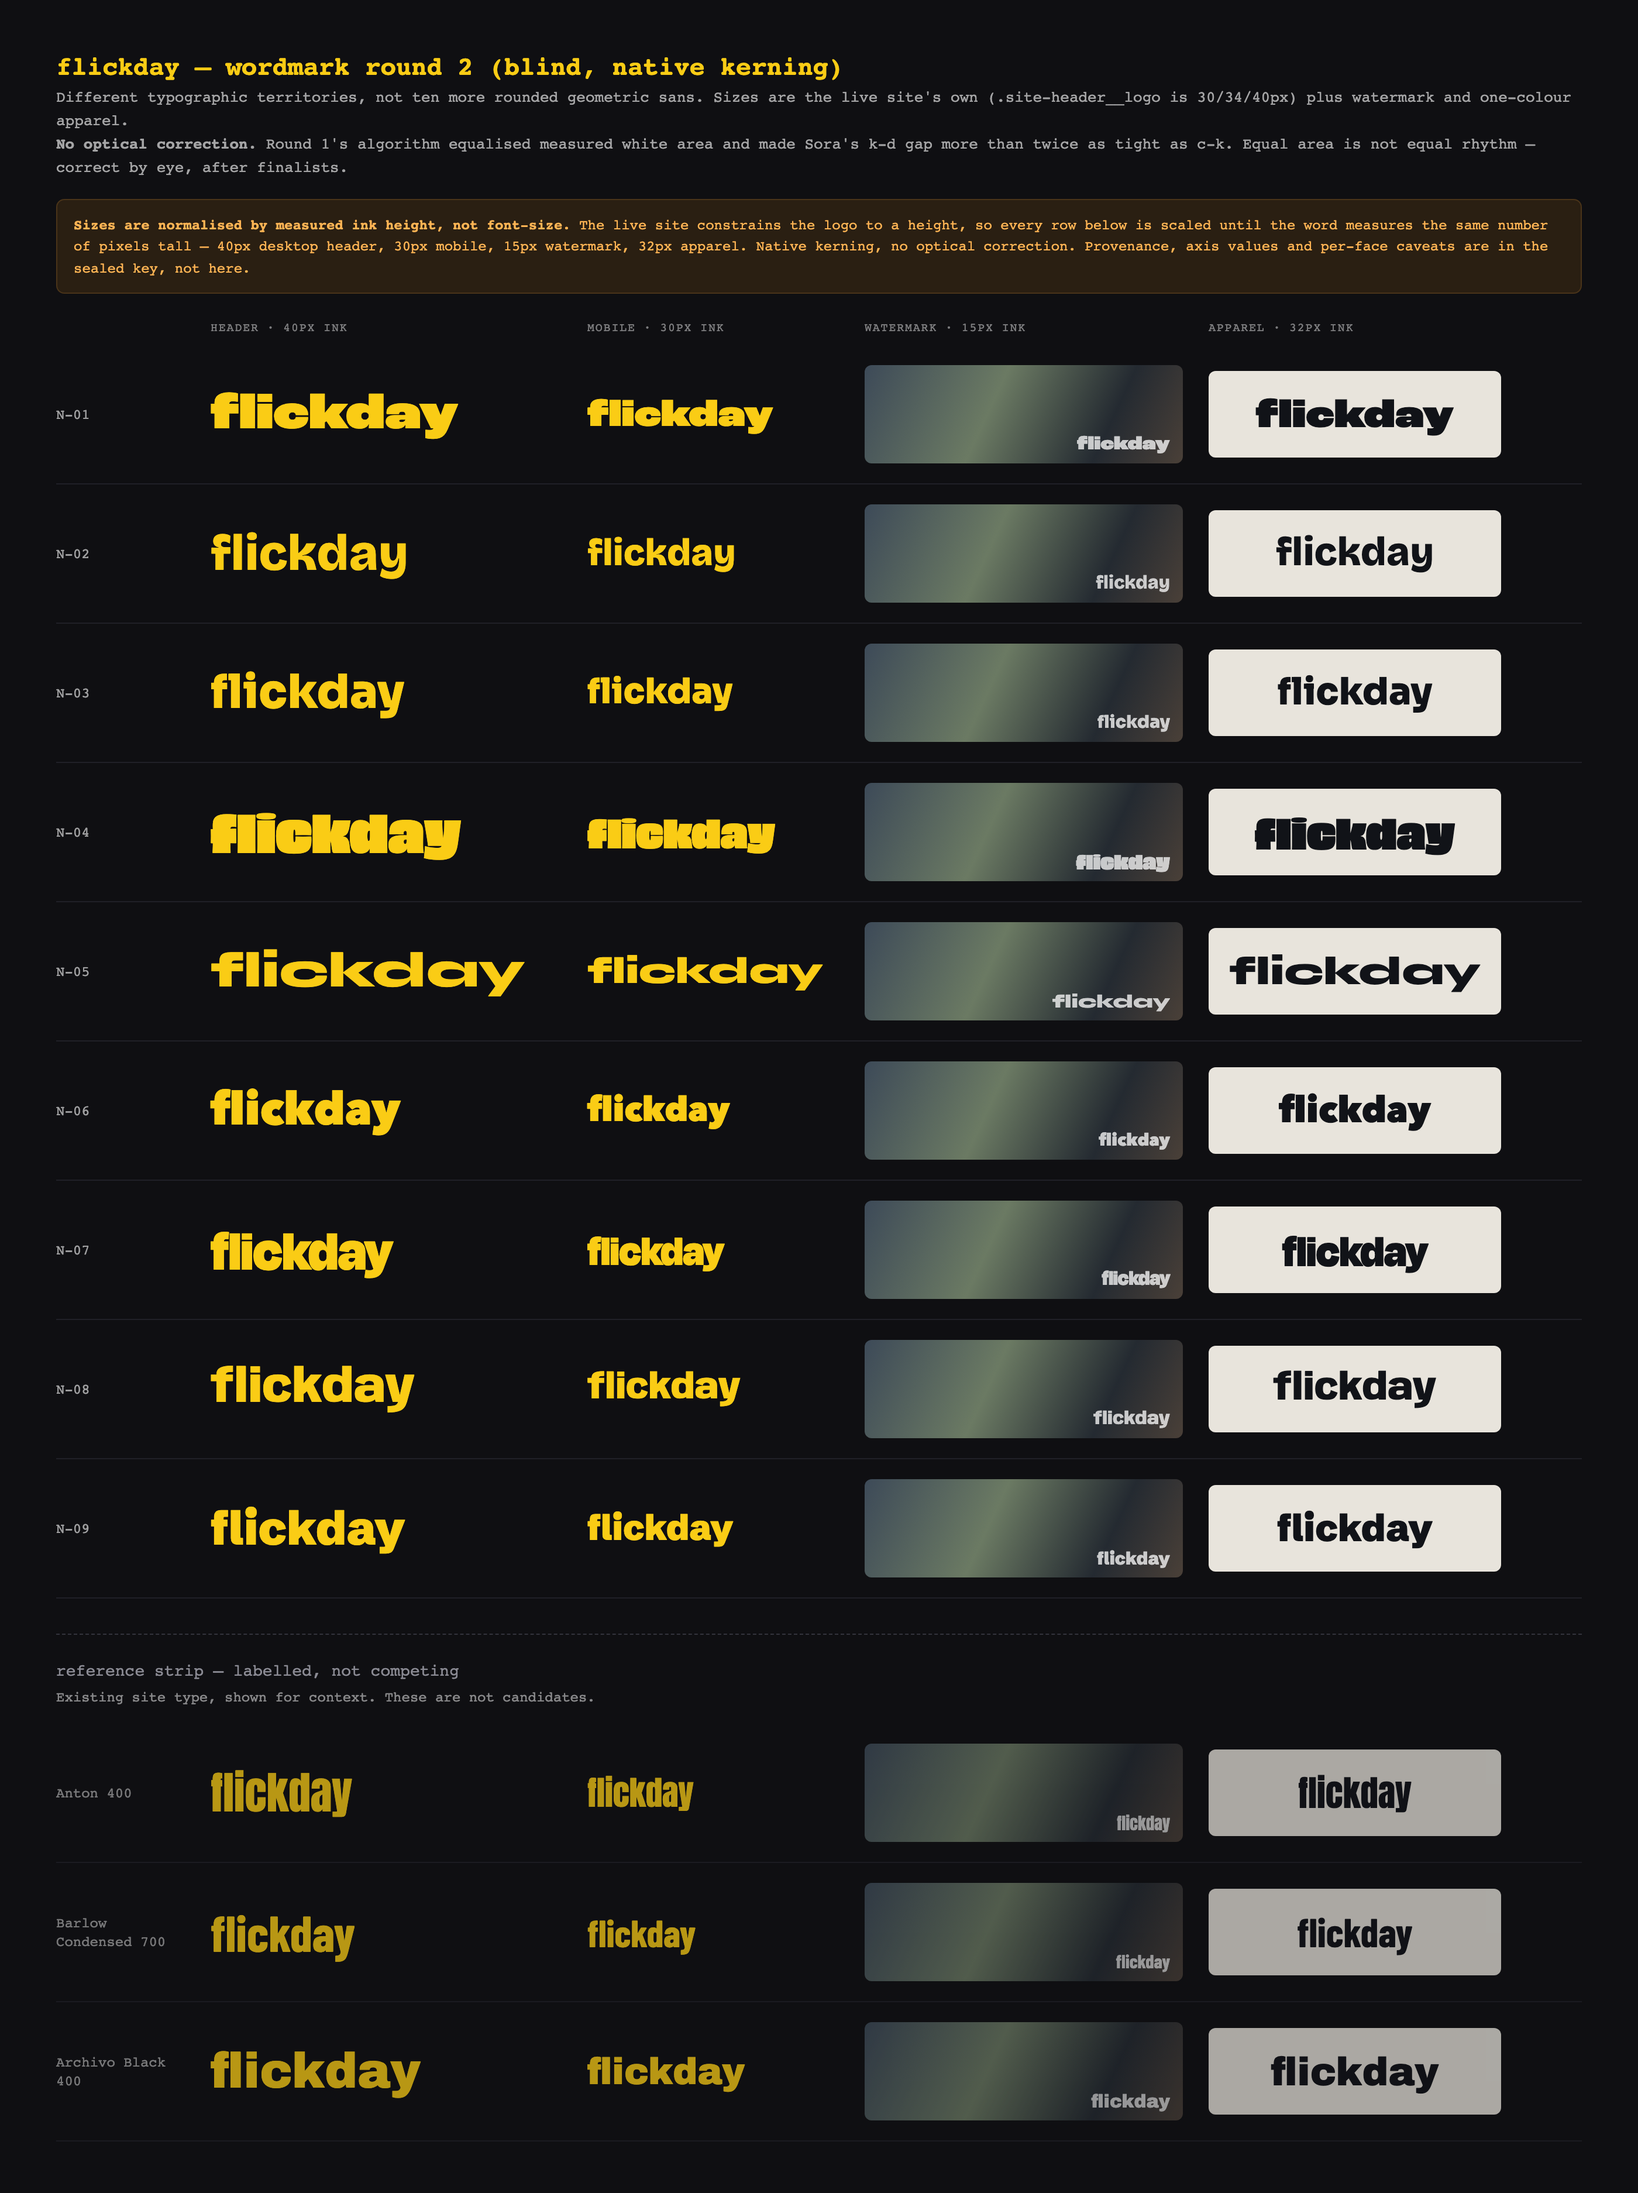
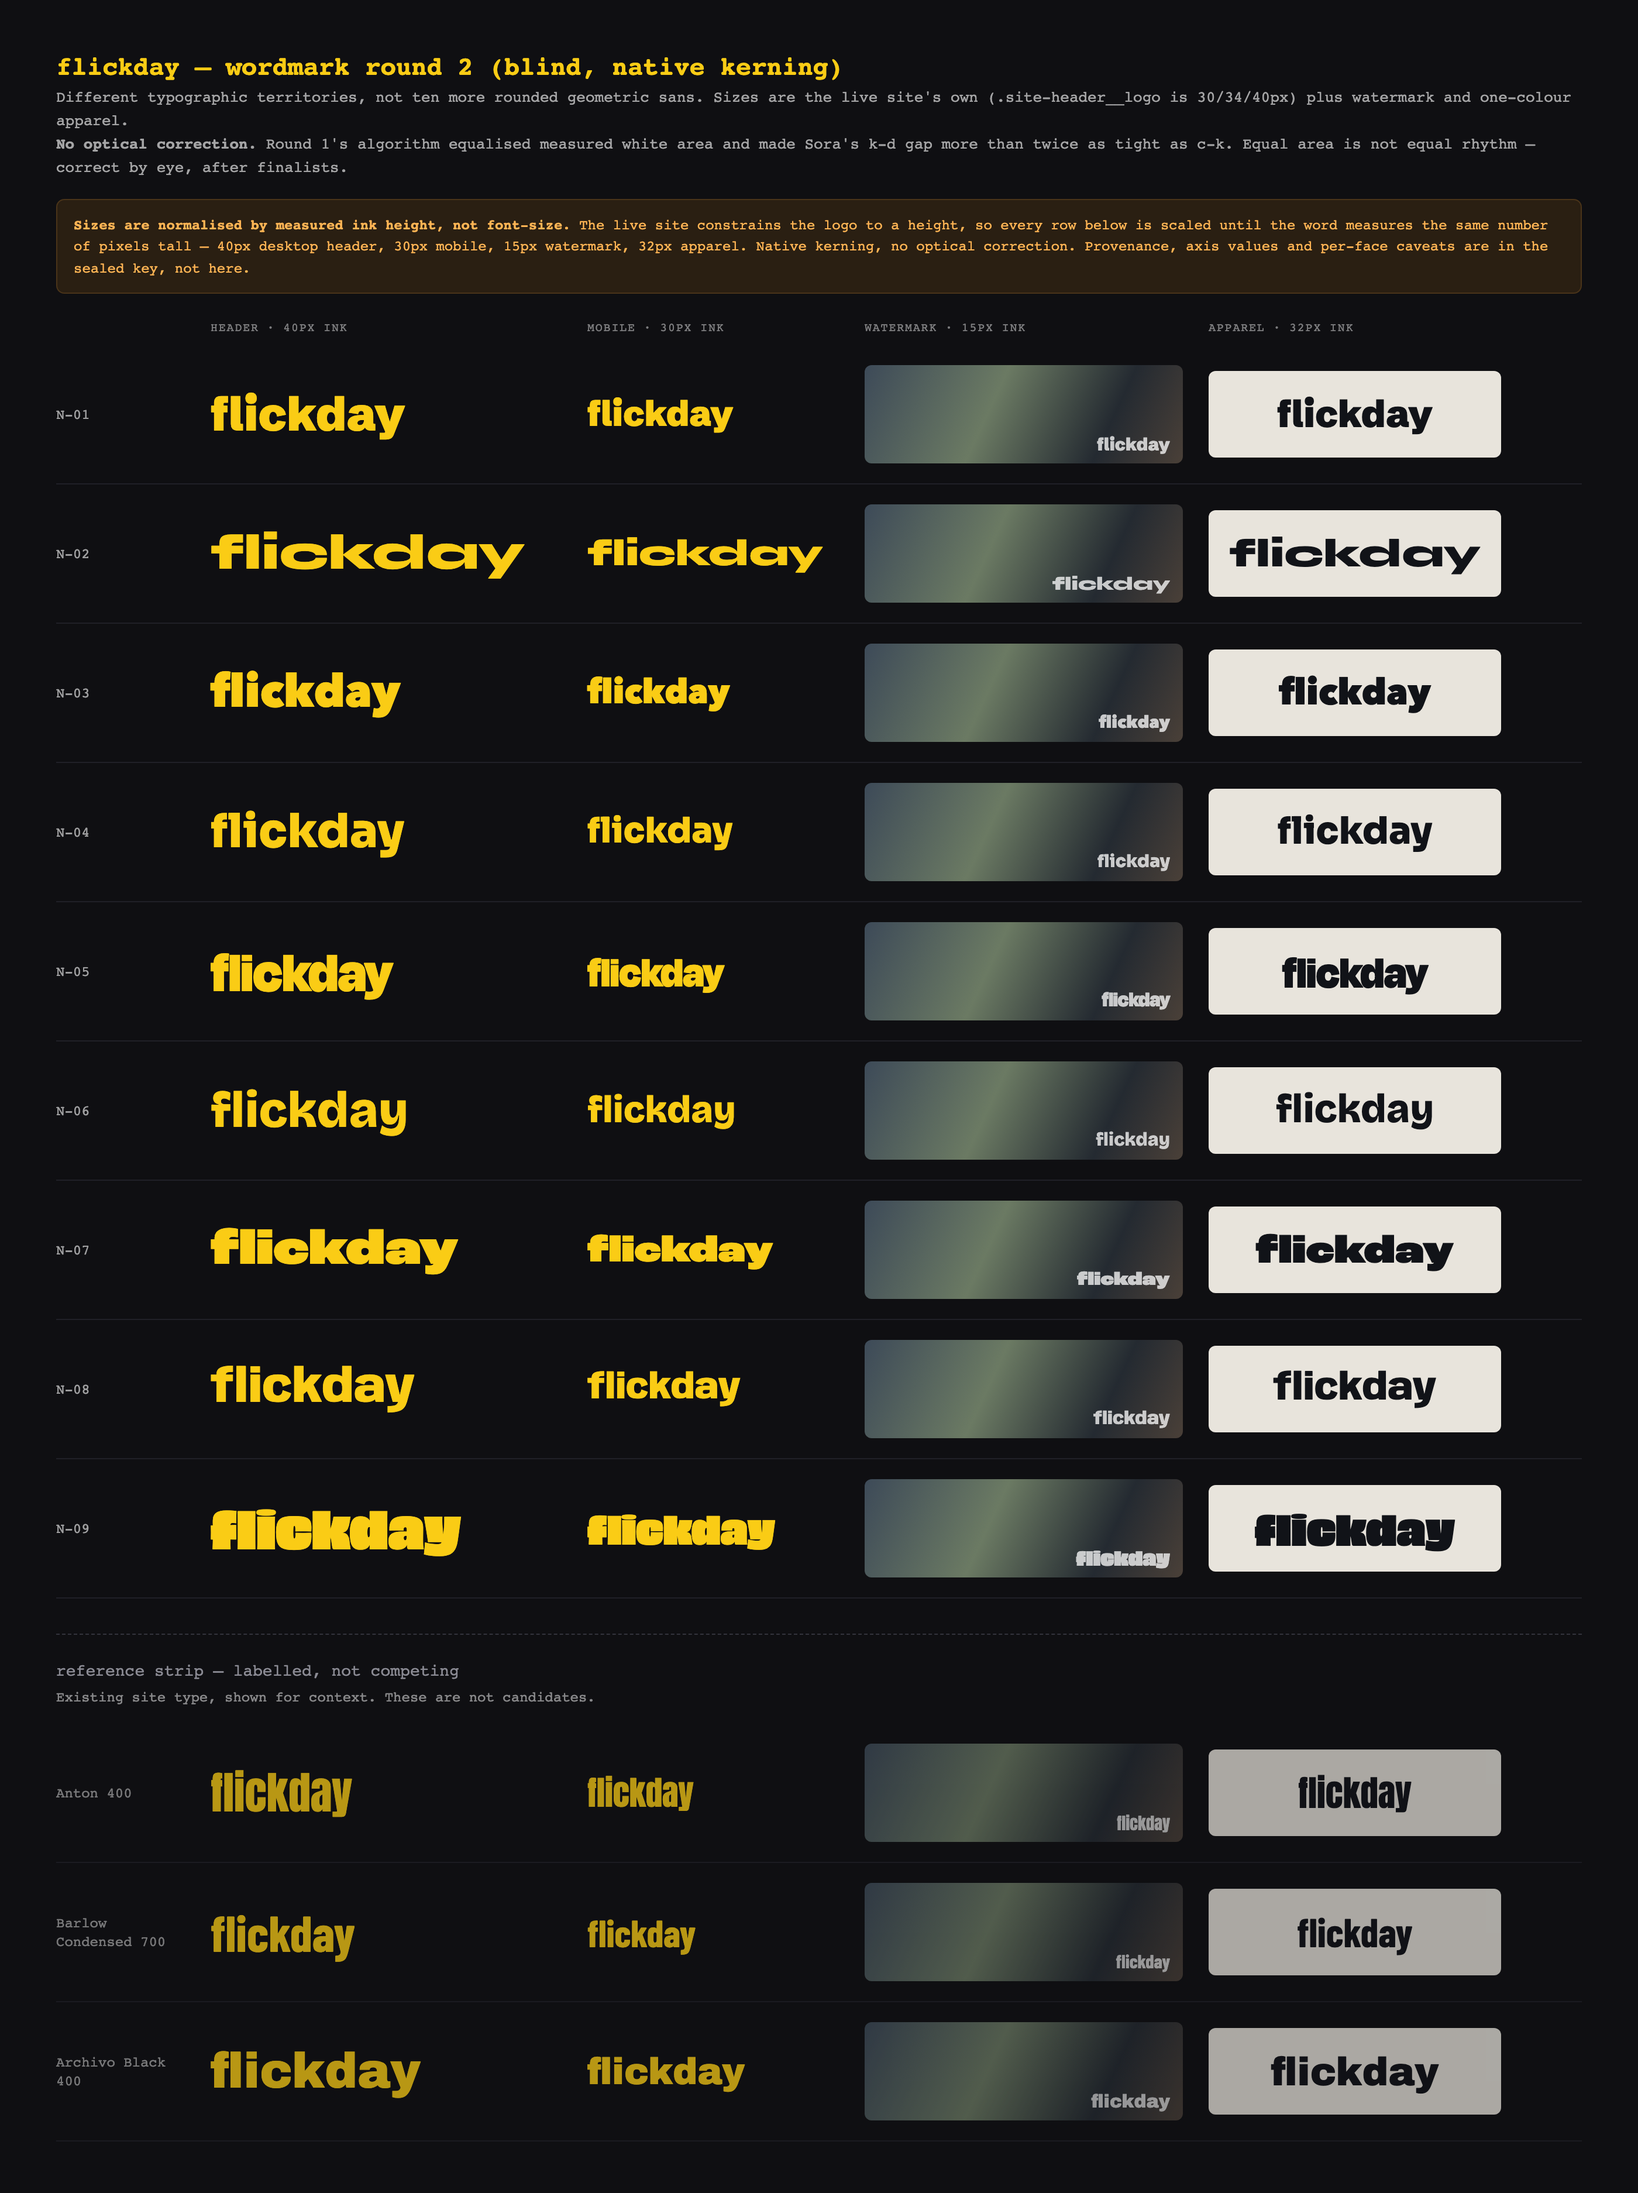
feat(wordmark): reshuffle to restore blindness, and record a blind read
Both reviewers had learned the fixed permutation by reviewing the code
that produced it, so the sheet was no longer blind to either of us. The
script now takes FLICKDAY_SHUFFLE=1, draws the order at random, and never
narrates it: per-face fetch logging is gone and the roster prints
alphabetically, so the roster is visible and the assignment is not.

One identity still leaks and is declared rather than hidden. Ink at 200px
is logged per code, and 160 is distinctive enough to name the Degular row
from the earlier fixed-order runs. It is also the top pick, which is
noted in the read.

round2-BLIND-READ.md records the shortlist before the key was opened:
N-09 rejected for closing up at 15px, N-05/N-02/N-07 carried, N-01 as the
alternate if width eliminates either wide candidate.

The spacing note worth keeping: kd runs open and ck runs tight in the raw
metrics of nearly every face. That asymmetry is real, and it is what the
round-1 algorithm over-read when it drove kd to twice the correction of
ck. The pair needs closing by hand, and by less.

diff --git a/flickday-assets/wordmarks/round2-BLIND-READ.md b/flickday-assets/wordmarks/round2-BLIND-READ.md
@@ -1,0 +1,60 @@
+# Round 2 blind read — 2026-07-22
+
+Written before `round2-KEY.json` was opened, against the reshuffled sheet
+(`FLICKDAY_SHUFFLE=1`), whose permutation was drawn at random and never printed.
+
+## Honesty caveat, read this first
+
+One identity leaked. **N-05 has ink 160 at 200px**, and 160 is the value the earlier
+fixed-order runs reported for the Degular row — distinctive enough that I can name it.
+Every other row is genuinely unknown to me. N-05 is also my top pick, so that ranking
+deserves more scepticism than the rest of this file.
+
+## 1. Rejected on the stated criteria
+
+- **N-09 — fails at 15px.** Counters close up; the `c` and `a` fill in and the word
+  starts reading as a block. Everything else survives the watermark.
+
+No candidate feels wrong on apparel. All nine reproduce cleanly in one colour at 32px.
+
+## 2. Width is the real filter, not weight
+
+At 30px mobile the header has the least room of any surface Flickday uses.
+
+- **N-02** is by far the widest — roughly double N-01 for the same ink height.
+- **N-07** is second widest.
+
+Neither is illegible; both simply consume header width that may not exist. This is a
+measurement question, not a taste one: it should be settled against the real header
+container before either is approved.
+
+## 3. Shortlist — three that best express "the decisive instant"
+
+1. **N-05** — compact and dense, tight fit, punchy. Compactness reads as snap. Holds at
+   15px despite the density. *(See caveat: this is the row I can identify.)*
+2. **N-02** — the most kinetic of the nine. Angular cuts, a sharply cut `y` tail, real
+   forward motion. The one that looks like an instant rather than a label. Width is its
+   liability and may be disqualifying.
+3. **N-07** — heavy and confident, strongest presence at watermark and apparel. Less
+   quick than the two above; more assertive.
+
+**Alternate: N-01** — clean, sturdy, decisive without shouting, and none of N-02's width
+risk. The conservative pick if width eliminates N-02 or N-07.
+
+**Not carried:** N-03 and N-06 are the most legible and the most generic — they read
+neutral rather than decisive. N-04 is lighter in apparent weight and neutral in character.
+
+## 4. Native-spacing problems, observed and not corrected
+
+One pattern is consistent across nearly every face:
+
+- **`kd` runs open.** The k-leg and d-bowl enclose a wedge that native metrics do not
+  close. Most visible on N-07 and N-02.
+- **`ck` runs tight.** Round-to-straight, the usual offender.
+- **`fl` runs tight** on N-06 to the point of nearly touching.
+- **`ay` is fine** almost everywhere.
+
+That `kd` is loose and `ck` is tight in the raw metrics is exactly what the round-1
+algorithm over-read — it saw the same asymmetry and drove `kd` to twice the correction of
+`ck`. The asymmetry is real; the size of the fix was not. Whichever face wins will need
+`kd` closed by hand, and less than the algorithm wanted.
